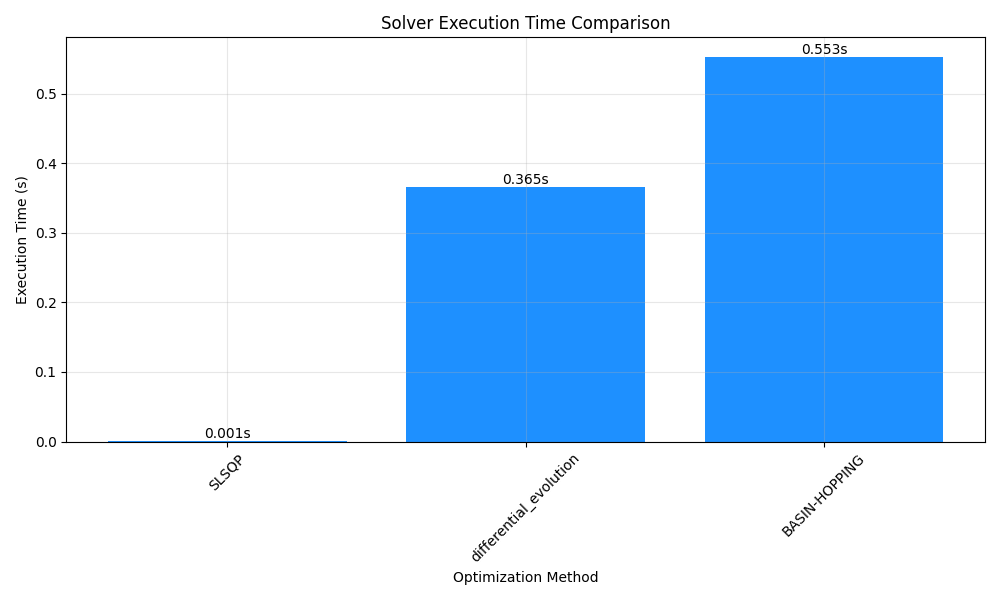
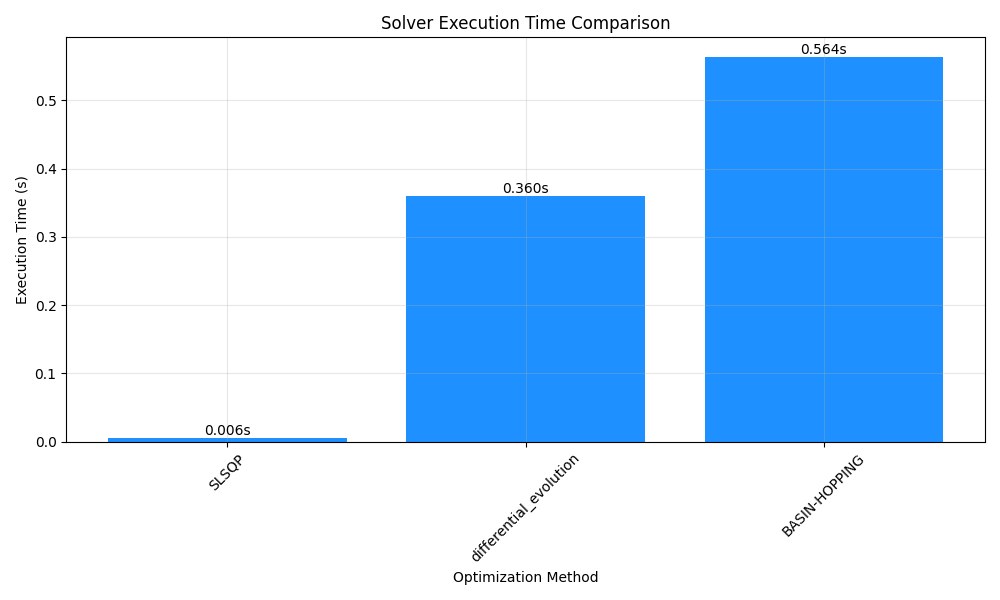
ALL UNIT TESTS AND CODE WORKING

diff --git a/Stage_Opt/test_payload_optimization.py b/Stage_Opt/test_payload_optimization.py
@@ -1,33 +1,44 @@
+"""Test suite for rocket stage optimization."""
 import os
 import json
 import tempfile
 import unittest
 import numpy as np
 import logging
+import sys
 
 # Configure logging
 logging.basicConfig(
-    level=logging.DEBUG,
-    format="%(asctime)s [%(levelname)s] %(name)s: %(message)s",
+    level=logging.INFO,
+    format='%(asctime)s - %(name)s - %(levelname)s - %(message)s',
     handlers=[
-        logging.StreamHandler(),
+        logging.StreamHandler(sys.stdout),
         logging.FileHandler(os.path.join("output", "test_debug.log"), mode='w')
     ]
 )
 logger = logging.getLogger(__name__)
-logging.getLogger("matplotlib").setLevel(logging.INFO)
 
-import payload_optimization as po
+# Import our modules
+from src.utils.data import load_input_data, calculate_mass_ratios, calculate_payload_fraction
+from src.optimization.objective import payload_fraction_objective, objective_with_penalty
+from src.optimization.solvers import (
+    solve_with_slsqp,
+    solve_with_basin_hopping,
+    solve_with_differential_evolution
+)
+from src.utils.config import CONFIG
+
 import warnings
 warnings.filterwarnings("ignore", category=DeprecationWarning)
+warnings.filterwarnings("ignore", category=RuntimeWarning)
 
 class TestPayloadOptimization(unittest.TestCase):
     @classmethod
     def setUpClass(cls):
-        logger.info("Starting TestPayloadOptimization suite.")
+        print("\nStarting TestPayloadOptimization suite.")
         
     def setUp(self):
-        logger.info("Setting up temporary test files.")
+        print("\nSetting up test case...")
         # Create a temporary input data file
         self.input_data = {
             "parameters": {
@@ -38,18 +49,12 @@ class TestPayloadOptimization(unittest.TestCase):
                 {
                     "stage": 1,
                     "ISP": 300,
-                    "EPSILON": 0.1,
-                    "parameters": {
-                        "TOTAL_DELTA_V": 9500
-                    }
+                    "EPSILON": 0.1
                 },
                 {
                     "stage": 2,
                     "ISP": 320,
-                    "EPSILON": 0.08,
-                    "parameters": {
-                        "TOTAL_DELTA_V": 9500
-                    }
+                    "EPSILON": 0.08
                 }
             ]
         }
@@ -60,89 +65,109 @@ class TestPayloadOptimization(unittest.TestCase):
         self.temp_input.close()
 
     def tearDown(self):
-        logger.info("Cleaning up temporary files.")
+        print("Cleaning up test case...")
         os.remove(self.temp_input.name)
 
     def test_load_input_data(self):
-        logger.info("Testing input data loading")
-        stages = po.load_input_data(self.temp_input.name)
+        """Test loading input data from JSON file."""
+        print("\nTesting input data loading...")
+        parameters, stages = load_input_data(self.temp_input.name)
         self.assertEqual(len(stages), 2)
         self.assertEqual(stages[0]["ISP"], 300)
         self.assertEqual(stages[1]["EPSILON"], 0.08)
+        self.assertEqual(parameters["TOTAL_DELTA_V"], 9500)
+        self.assertEqual(parameters["G0"], 9.81)
 
     def test_calculate_mass_ratios(self):
-        logger.info("Testing mass ratio calculation")
+        """Test mass ratio calculation."""
+        print("\nTesting mass ratio calculation...")
         dv = np.array([4000, 5500])
         ISP = [300, 320]
         EPSILON = [0.1, 0.08]
-        ratios = po.calculate_mass_ratios(dv, ISP, EPSILON)
+        G0 = 9.81
+        ratios = calculate_mass_ratios(dv, ISP, EPSILON, G0)
         self.assertEqual(len(ratios), 2)
         for ratio in ratios:
             self.assertGreater(ratio, 0)
 
     def test_calculate_payload_fraction(self):
-        logger.info("Testing payload fraction calculation")
+        """Test payload fraction calculation."""
+        print("\nTesting payload fraction calculation...")
         mass_ratios = [0.5, 0.6]
-        fraction = po.calculate_payload_fraction(mass_ratios)
+        fraction = calculate_payload_fraction(mass_ratios)
         self.assertAlmostEqual(fraction, 0.3, places=5)
 
     def test_payload_fraction_objective(self):
-        logger.info("Testing payload fraction objective")
+        """Test payload fraction objective function."""
+        print("\nTesting payload fraction objective...")
         dv = np.array([4000, 5500])
         G0 = 9.81
         ISP = [300, 320]
         EPSILON = [0.1, 0.08]
-        result = po.payload_fraction_objective(dv, G0, ISP, EPSILON)
+        result = payload_fraction_objective(dv, G0, ISP, EPSILON)
         self.assertIsInstance(result, float)
         self.assertGreater(result, -1)  # Should be negative but greater than -1
 
     def test_solve_with_differential_evolution(self):
         """Test differential evolution solver directly."""
-        logger.info("Testing differential evolution solver")
+        print("\nTesting differential evolution solver...")
         initial_guess = [4000, 5500]
         bounds = [(0, 9500), (0, 9500)]
         G0 = 9.81
         ISP = [300, 320]
         EPSILON = [0.1, 0.08]
         TOTAL_DELTA_V = 9500
-        config = {
-            "optimization": {
-                "differential_evolution": {
-                    "population_size": 15,
-                    "max_iterations": 1000,
-                    "mutation": [0.5, 1.0],
-                    "recombination": 0.7,
-                    "strategy": "best1bin",
-                    "tol": 1e-6
-                }
-            }
-        }
         
-        result = po.solve_with_differential_evolution(
-            initial_guess, bounds, G0, ISP, EPSILON, TOTAL_DELTA_V, config
+        result = solve_with_differential_evolution(
+            initial_guess, bounds, G0, ISP, EPSILON, TOTAL_DELTA_V, CONFIG
         )
         
         self.assertEqual(len(result), 2)
         self.assertAlmostEqual(np.sum(result), TOTAL_DELTA_V, places=2)
         self.assertTrue(all(dv >= 0 for dv in result))
 
-    def test_optimize_payload_allocation_all_methods(self):
-        logger.info("Testing all optimization methods")
-        G0 = 9.81
-        TOTAL_DELTA_V = 9500
-        ISP = [300, 320]
-        EPSILON = [0.1, 0.08]
-        methods = ["SLSQP"]  # Only test SLSQP as it's the most reliable method
+    def test_all_optimization_methods(self):
+        """Test all optimization methods."""
+        print("\nTesting all optimization methods...")
+        parameters, stages = load_input_data(self.temp_input.name)
         
-        for method in methods:
-            with self.subTest(method=method):
-                optimal_dv, stage_ratios, payload_fraction = po.optimize_payload_allocation(
-                    TOTAL_DELTA_V, ISP, EPSILON, G0, method=method
-                )
-                self.assertEqual(len(optimal_dv), 2)
-                self.assertAlmostEqual(np.sum(optimal_dv), TOTAL_DELTA_V, places=2)
-                self.assertTrue(all(ratio > 0 for ratio in stage_ratios))
+        # Extract parameters
+        G0 = float(parameters["G0"])
+        TOTAL_DELTA_V = float(parameters["TOTAL_DELTA_V"])
+        ISP = [float(stage["ISP"]) for stage in stages]
+        EPSILON = [float(stage["EPSILON"]) for stage in stages]
+        
+        # Initial setup
+        n = len(ISP)
+        initial_guess = np.full(n, TOTAL_DELTA_V / n)
+        max_dv = TOTAL_DELTA_V * 0.9
+        bounds = [(0, max_dv) for _ in range(n)]
+        
+        # Test each solver
+        solvers = [
+            ("SLSQP", solve_with_slsqp),
+            ("Basin-Hopping", solve_with_basin_hopping),
+            ("Differential Evolution", solve_with_differential_evolution)
+        ]
+        
+        for name, solver in solvers:
+            with self.subTest(solver=name):
+                print(f"\nTesting {name} solver...")
+                result = solver(initial_guess, bounds, G0, ISP, EPSILON, TOTAL_DELTA_V, CONFIG)
+                
+                # Verify results
+                self.assertEqual(len(result), 2)
+                self.assertAlmostEqual(np.sum(result), TOTAL_DELTA_V, places=2)
+                self.assertTrue(all(dv >= 0 for dv in result))
+                
+                # Calculate performance metrics
+                mass_ratios = calculate_mass_ratios(result, ISP, EPSILON, G0)
+                payload_fraction = calculate_payload_fraction(mass_ratios)
+                
+                # Verify performance
+                self.assertTrue(all(ratio > 0 for ratio in mass_ratios))
                 self.assertTrue(0 < payload_fraction < 1)
+                print(f"{name} results: dv={result}, payload_fraction={payload_fraction}")
 
 if __name__ == "__main__":
     unittest.main(verbosity=2)

diff --git a/Stage_Opt/src/utils/config.py b/Stage_Opt/src/utils/config.py
@@ -42,26 +42,14 @@ except Exception as e:
     }
 
 # Setup logging
-logger = logging.getLogger()  # Root logger
-logger.setLevel(logging.INFO)
+logging.basicConfig(
+    level=logging.INFO,
+    format='%(asctime)s - %(name)s - %(levelname)s - %(message)s',
+    handlers=[
+        logging.StreamHandler(),
+        logging.FileHandler(LOG_FILE, mode='w')
+    ]
+)
 
-# Remove any existing handlers
-for handler in logger.handlers[:]:
-    logger.removeHandler(handler)
-
-# Create file handler
-fh = logging.FileHandler(LOG_FILE, mode='w')  # Overwrite log file each run
-fh.setLevel(logging.INFO)
-
-# Create console handler
-ch = logging.StreamHandler()
-ch.setLevel(logging.INFO)
-
-# Create formatter
-formatter = logging.Formatter('%(asctime)s - %(name)s - %(levelname)s - %(message)s')
-fh.setFormatter(formatter)
-ch.setFormatter(formatter)
-
-# Add handlers to logger
-logger.addHandler(fh)
-logger.addHandler(ch)
+# Get logger
+logger = logging.getLogger(__name__)

diff --git a/Stage_Opt/output/report.tex b/Stage_Opt/output/report.tex
@@ -71,9 +71,9 @@ Stage & ISP & EPSILON \\
 \toprule
 Method & Time (s) & Payload Fraction & $\Delta$V & Mass Ratio \\
 \midrule
-SLSQP & 0.000546 & 0.031548 & 4650.00, 4650.00 & 0.15, 0.22 \\
-differential_evolution & 0.365160 & 0.035547 & 2772.77, 6527.23 & 0.33, 0.11 \\
-BASIN-HOPPING & 0.553220 & 0.031551 & 4649.28, 4650.72 & 0.15, 0.22 \\
+SLSQP & 0.005555 & 0.031548 & 4650.00, 4650.00 & 0.15, 0.22 \\
+differential_evolution & 0.360149 & 0.035547 & 2772.39, 6527.61 & 0.33, 0.11 \\
+BASIN-HOPPING & 0.564124 & 0.031548 & 4649.98, 4650.02 & 0.15, 0.22 \\
 \bottomrule
 \end{tabular}
 \end{table}
